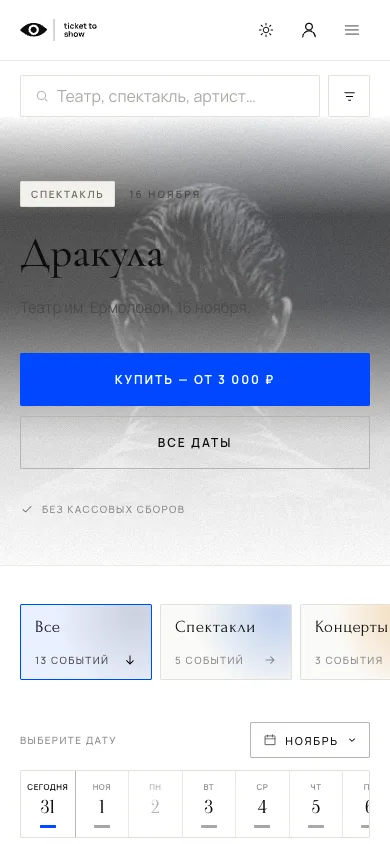
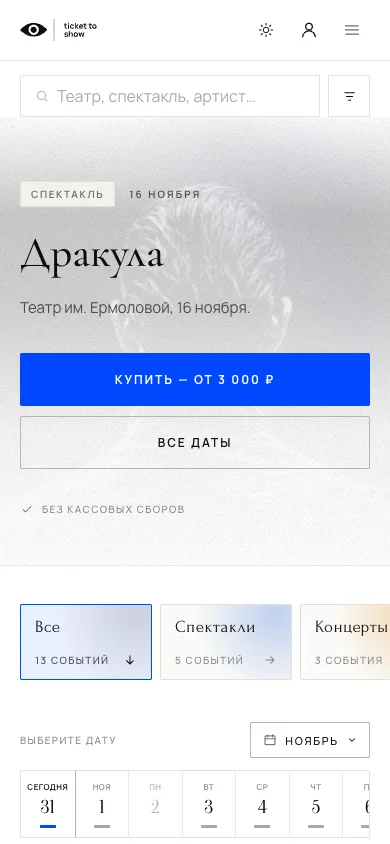
fix(site): home hero shows the whole poster on phones — wide poster as a card above the title, blurred copy behind; hero event is now Psychopaths
The full-bleed photo under the text cut a wide poster down to one face and washed it out in the light theme.
The intro's top card now morphs to the poster's proportions on its way into it.

Changed region(s): [[0.0, 0.154, 1.0, 0.5237]]

diff --git a/site/handoff/stand-fixes/index.html b/site/handoff/stand-fixes/index.html
@@ -302,7 +302,7 @@
         <tr><td class="sid"><a href="#p1">П1</a></td><td>Главная</td><td class="sw">Новая главная и заставка</td><td>заставка-прелоадер с колодой афиш, новый первый экран, календарь</td><td><span class="st st-pick">Предложение</span></td></tr>
         <tr><td class="sid"><a href="#p2">П2</a></td><td>Главная</td><td class="sw">Категории и первый экран<span class="new">New</span></td><td>чипы, пять плиток или первый экран на всю высоту с плитками после него</td><td><span class="st st-pick">На выбор</span></td></tr>
         <tr><td class="sid"><a href="#p3">П3</a></td><td>Карточка афиши</td><td class="sw">«В избранное»<span class="new">New</span></td><td>сердечко на обложке — сохранить событие прямо из афиши</td><td><span class="st st-pick">На выбор</span></td></tr>
-        <tr><td class="sid"><a href="#p4">П4</a></td><td>Главная · телефон</td><td class="sw">Светлая тема первого экрана<span class="new">New</span></td><td>фото под текстом высветляется, а не темнеет — текст читается</td><td><span class="st st-ok">Макет готов</span></td></tr>
+        <tr><td class="sid"><a href="#p4">П4</a></td><td>Главная · телефон</td><td class="sw">Афиша на первом экране<span class="new">New</span></td><td>афиша целиком, карточкой над заголовком, а не фоном под текстом — видна в обеих темах</td><td><span class="st st-ok">Макет готов</span></td></tr>
       </table>
     </div>
   </section>
@@ -790,14 +790,14 @@
         <tr><th>Что</th><th>Сейчас</th><th>Предложение</th></tr>
         <tr><td class="p">Заставка</td><td class="o" data-h="Сейчас">нет</td><td class="n" data-h="Предложение">колода афиш в кобальтовой рамке, свет «Рампа», крупно «Ticket to Show — билеты без кассовых сборов»; верхняя афиша перелетает в постер первого экрана</td></tr>
         <tr><td class="p">Когда играет</td><td class="o" data-h="Сейчас">—</td><td class="n" data-h="Предложение">первый визит — длинная версия, около 5 с; новый визит — около 3 с, идёт за реальной загрузкой; повторные загрузки в той же вкладке — без заставки. После заставки страница стоит в самом верху</td></tr>
-        <tr><td class="p">Первый экран</td><td class="o" data-h="Сейчас">—</td><td class="n" data-h="Предложение">постер события, название, площадка и дата, «Купить — от … ₽» и «Все даты»; ниже — чипы категорий и календарь</td></tr>
+        <tr><td class="p">Первый экран</td><td class="o" data-h="Сейчас">—</td><td class="n" data-h="Предложение">постер события, название, площадка и дата, «Купить — от … ₽» и «Все даты»; ниже — чипы категорий и календарь. Постер — в пропорциях афиши (чаще горизонтальной), подробно — <a href="#p4">П4</a></td></tr>
         <tr><td class="p">Для фронтенда</td><td class="o" data-h="Сейчас">—</td><td class="n" data-h="Предложение">заставка — один файл <code>tts-intro.js</code> без зависимостей, запуск <code>TTSIntro.start({…})</code>; проверка — <code>?intro=0</code>, <code>?intro=long</code>, <code>?intro=short</code></td></tr>
-        <tr><td class="p">Кадры колоды</td><td class="o" data-h="Сейчас">—</td><td class="n" data-h="Предложение">в макете — нарисованные кадры сцены, не афиши; настоящие афиши (3:4, от 900 px по высоте) перечисляются в <code>INTRO_IMAGES</code></td></tr>
+        <tr><td class="p">Кадры колоды</td><td class="o" data-h="Сейчас">—</td><td class="n" data-h="Предложение">в макете — нарисованные кадры сцены, не афиши; настоящие афиши (от 900 px по высоте) перечисляются в <code>INTRO_IMAGES</code>. Верхняя карточка по пути к постеру принимает его пропорции — горизонтальная афиша не обрезается до вертикали</td></tr>
       </table>
       <div class="shots">
         <div class="col"><span class="lbl lbl-new">Заставка · колода и надпись</span><figure class="shot"><img src="img/intro-deck.webp" width="1200" height="750" alt="Заставка: крупная надпись «Ticket to Show — билеты без кассовых сборов» поверх колоды кадров" loading="lazy"></figure></div>
         <div class="col"><span class="lbl lbl-new">Заставка · верхняя афиша</span><figure class="shot"><img src="img/intro-top.webp" width="1200" height="750" alt="Заставка: верхняя афиша колоды в кобальтовой рамке, внизу счётчик загрузки и «К билетам»" loading="lazy"></figure></div>
-        <div class="col"><span class="lbl lbl-new">Первый экран после заставки</span><figure class="shot"><img src="img/intro-hero.webp" width="1200" height="750" alt="Первый экран: «Дракула», кнопки «Купить» и «Все даты», постер справа, ниже чипы категорий и календарь" loading="lazy"></figure></div>
+        <div class="col"><span class="lbl lbl-new">Первый экран после заставки</span><figure class="shot"><img src="img/intro-hero.webp" width="1200" height="750" alt="Первый экран: «Психопаты», кнопки «Купить» и «Все даты», горизонтальная афиша справа, ниже плитки категорий" loading="lazy"></figure></div>
       </div>
       <div class="shots phones">
         <div class="col"><span class="lbl lbl-new">Заставка · телефон</span><figure class="shot"><img src="img/intro-mob.webp" width="390" height="844" alt="Заставка на телефоне" loading="lazy"></figure></div>
@@ -812,7 +812,7 @@
         <tr><th>Что</th><th>Сейчас</th><th>Предложение</th></tr>
         <tr><td class="p">A · Было</td><td class="o" data-h="Сейчас">чипы категорий под первым экраном</td><td class="n" data-h="Предложение">без изменений: «Все / Спектакли / Концерты / Классика / Детям», дальше календарь</td></tr>
         <tr><td class="p">B · Плитки</td><td class="o" data-h="Сейчас">чипы</td><td class="n" data-h="Предложение">пять крупных плиток вместо чипов: название, описание, число событий, стрелка; выбранная — фон <code>--accent-ghost</code> и рамка <code>--accent</code>. На телефоне листаются свайпом, описание скрыто</td></tr>
-        <tr><td class="p">C · Полный экран</td><td class="o" data-h="Сейчас">первый экран обычной высоты</td><td class="n" data-h="Предложение">первый экран на всю высоту окна под шапкой, внизу стрелка «Афиша ↓» (нажатие прокручивает к плиткам). На телефоне и планшете текст и кнопки прижаты к низу, в 40 px над стрелкой: сверху остаётся кадр, пустоты между кнопками и стрелкой нет. Плитки — мини-кнопка «Все» с числом и четыре жанра; при первой прокрутке проявляются по очереди, шаг 70 мс. Дальше календарь и афиша. При <code>prefers-reduced-motion</code> — без движения</td></tr>
+        <tr><td class="p">C · Полный экран</td><td class="o" data-h="Сейчас">первый экран обычной высоты</td><td class="n" data-h="Предложение">первый экран на всю высоту окна под шапкой, внизу стрелка «Афиша ↓» (нажатие прокручивает к плиткам). На телефоне и планшете текст и кнопки прижаты к низу, в 40 px над стрелкой, над ними — афиша целиком (<a href="#p4">П4</a>); пустоты между кнопками и стрелкой нет. Плитки — мини-кнопка «Все» с числом и четыре жанра; при первой прокрутке проявляются по очереди, шаг 70 мс. Дальше календарь и афиша. При <code>prefers-reduced-motion</code> — без движения</td></tr>
       </table>
       <div class="shots">
         <div class="col"><span class="lbl lbl-new">A · Было</span><figure class="shot"><img src="img/home-v-old.webp" width="1100" height="688" alt="Под первым экраном — чипы категорий, календарь и афиша" loading="lazy"></figure></div>
@@ -824,7 +824,7 @@
       </div>
       <div class="shots phones">
         <div class="col"><span class="lbl lbl-new">B · телефон</span><figure class="shot"><img src="img/home-v-tiles-mob.webp" width="390" height="844" alt="Плитки категорий лентой со свайпом на телефоне" loading="lazy"></figure></div>
-        <div class="col"><span class="lbl lbl-new">C · телефон</span><figure class="shot"><img src="img/home-v-full-mob.webp" width="390" height="844" alt="Первый экран на всю высоту телефона: кадр сверху, текст и кнопки у нижнего края, под ними «Без кассовых сборов» и стрелка «Афиша»" loading="lazy"></figure></div>
+        <div class="col"><span class="lbl lbl-new">C · телефон</span><figure class="shot"><img src="img/home-v-full-mob.webp" width="390" height="844" alt="Первый экран на всю высоту телефона: афиша целиком сверху, текст и кнопки у нижнего края, под ними «Без кассовых сборов» и стрелка «Афиша»" loading="lazy"></figure></div>
         <div class="col"><span class="lbl lbl-new">C · телефон, прокрутка</span><figure class="shot"><img src="img/home-v-full-mob-scroll.webp" width="390" height="844" alt="Мини-кнопка «Все» и плитки жанров после прокрутки на телефоне" loading="lazy"></figure></div>
       </div>
     </article>
@@ -847,15 +847,21 @@
     </article>
 
     <article class="chg" id="p4">
-      <div class="chg-h"><div class="chg-id">П4</div><div class="chg-t"><h3>Светлая тема первого экрана на телефоне<span class="new">New</span></h3><div class="where">Главная — телефон, первый экран с фото · <code>site/home-new.html</code>, <code>site/home-new-tiles.html</code></div></div><span class="st st-ok">Макет готов</span></div>
+      <div class="chg-h"><div class="chg-id">П4</div><div class="chg-t"><h3>Афиша на первом экране телефона<span class="new">New</span></h3><div class="where">Главная — телефон и планшет, первый экран · <code>site/home-new.html</code>, <code>site/home-new-tiles.html</code>, заставка <code>site/handoff/intro/tts-intro.js</code></div></div><span class="st st-ok">Макет готов</span></div>
+      <div class="live"><a href="../../home-new-tiles.html?v=tiles&amp;intro=0">Живой макет ↗</a><a href="../../home-new-tiles.html?v=full&amp;intro=0">Полный экран ↗</a></div>
+      <p class="note">Афиши почти всегда горизонтальные: группа артистов, сцена. Растянутая фоном на весь экран телефона, такая афиша режется до одного-двух лиц, мылится, а текст ложится на лица; в светлой теме её ещё и приходится высветлять — афишу почти не видно. Поэтому на телефоне афиша не фон, а сам постер, как на десктопе.</p>
       <table class="spec">
         <tr><th>Что</th><th>Было</th><th>Стало</th></tr>
-        <tr><td class="p">Фото под текстом</td><td class="o" data-h="Было">затемнено (<code>brightness(.55)</code>) и уходит в белый фон — серая каша, тёмный текст на сером, дата и площадка не читаются</td><td class="n" data-h="Стало">в светлой теме фото обесцвечено и высветлено (<code>grayscale(1) brightness(1.45) contrast(.55)</code>, прозрачность 0,6), сверху светлая подложка — тёмный текст читается на любом кадре</td></tr>
-        <tr><td class="p">Правило</td><td class="o" data-h="Было">—</td><td class="n" data-h="Стало">в светлой теме фото под текстом не затемняется, а высветляется; тёмная тема без изменений</td></tr>
+        <tr><td class="p">Афиша</td><td class="o" data-h="Было">фоном под текстом на весь первый экран: от горизонтальной афиши виден кусок, в светлой теме — блёклая (<code>grayscale(1) brightness(1.45) contrast(.55)</code>, прозрачность 0,6)</td><td class="n" data-h="Стало">целиком, карточкой над заголовком — во всю ширину колонки, в пропорциях афиши (<code>--poster-ar</code>), не выше половины экрана; рамка и тень как у постера на десктопе. Без фильтров — одинаково видна в обеих темах</td></tr>
+        <tr><td class="p">Фон</td><td class="o" data-h="Было">то же фото, затемнённое или высветленное</td><td class="n" data-h="Стало">та же афиша, сильно размытая (44 px): свет и цвет кадра без деталей, книзу уходит в цвет страницы. В тёмной теме притемнена, в светлой высветлена — текст читается на любом кадре</td></tr>
+        <tr><td class="p">Десктоп</td><td class="o" data-h="Было">постер 3:4</td><td class="n" data-h="Стало">постер в пропорциях афиши; горизонтальный — шире (до 600 px), колонка текста уже</td></tr>
+        <tr><td class="p">Заставка</td><td class="o" data-h="Было">верхняя карточка 3:4 летит в постер 3:4</td><td class="n" data-h="Стало">по пути карточка принимает пропорции постера — горизонтальная афиша встаёт на место без скачка</td></tr>
+        <tr><td class="p">Картинка</td><td class="o" data-h="Было">—</td><td class="n" data-h="Стало">нужен кадр без полей: у «Психопатов» на сайте фото с бумагой по краям, в макете поля срезаны кадрированием (<code>--poster-pos</code>, <code>--poster-zoom</code>). Ширина — от 1200 px, иначе на телефоне кадр мылится</td></tr>
       </table>
       <div class="shots phones">
-        <div class="col"><span class="lbl lbl-before">Было</span><figure class="shot"><img src="img/hero-light-before.webp" width="390" height="844" alt="Светлая тема: серое затемнённое фото, тёмный текст плохо читается" loading="lazy"></figure></div>
-        <div class="col"><span class="lbl lbl-after">Стало</span><figure class="shot"><img src="img/hero-light-after.webp" width="390" height="844" alt="Светлая тема: высветленное фото, текст читается" loading="lazy"></figure></div>
+        <div class="col"><span class="lbl lbl-before">Было</span><figure class="shot"><img src="img/hero-light-before.webp" width="390" height="844" alt="Светлая тема: афиша высветлена фоном под текстом и почти не видна" loading="lazy"></figure></div>
+        <div class="col"><span class="lbl lbl-after">Стало · светлая</span><figure class="shot"><img src="img/hero-light-after.webp" width="390" height="844" alt="Светлая тема: афиша «Психопатов» целиком над заголовком, фон — её размытая копия" loading="lazy"></figure></div>
+        <div class="col"><span class="lbl lbl-after">Стало · тёмная</span><figure class="shot"><img src="img/hero-dark-after.webp" width="390" height="844" alt="Тёмная тема: та же раскладка" loading="lazy"></figure></div>
       </div>
     </article>
   </section>

diff --git a/site/home-new-tiles.html b/site/home-new-tiles.html
@@ -78,10 +78,15 @@ input:placeholder-shown + .search-clear { display:none; }
 .hero2-beam { position: absolute; inset: 0; filter: blur(24px); opacity: .7;
   background: conic-gradient(from 112deg at -6% -30%, transparent 0deg, color-mix(in srgb, var(--accent-soft) 9%, transparent) 6deg, color-mix(in srgb, var(--n100) 10%, transparent) 11deg, color-mix(in srgb, var(--accent) 6%, transparent) 18deg, transparent 24deg); }
 .hero2-grain { position: absolute; inset: 0; opacity: .045; }
-.hero2-poster { position: relative; justify-self: end; display: block; width: min(100%, 400px); aspect-ratio: 3 / 4; overflow: hidden; border: 1px solid var(--accent); border-radius: var(--r-sm); background: var(--n950); box-shadow: 0 50px 90px -30px var(--shadow-color); opacity: 0; }
+.hero2-poster { position: relative; justify-self: end; display: block; width: min(100%, var(--poster-w, 400px)); aspect-ratio: var(--poster-ar, 3 / 4); overflow: hidden; border: 1px solid var(--accent); border-radius: var(--r-sm); background: var(--n950); box-shadow: 0 50px 90px -30px var(--shadow-color); opacity: 0; }
 html.poster-in .hero2-poster, .no-js .hero2-poster { opacity: 1; }
-.hero2-poster img { display: block; width: 100%; height: 100%; object-fit: cover; transform: scale(1.04); transition: transform 1400ms var(--ease-in); }
-.hero2-poster:hover img { transform: scale(1.09); }
+.hero2-poster img { display: block; width: 100%; height: 100%; object-fit: cover; object-position: var(--poster-pos, 50% 50%); transform: scale(var(--poster-zoom, 1.04)); transition: transform 1400ms var(--ease-in); }
+.hero2-poster:hover img { transform: scale(calc(var(--poster-zoom, 1.04) + .05)); }
+/* горизонтальная афиша: постер шире, колонка текста уже */
+@media (min-width: 901px) { .hero2--wide .hero2-in { grid-template-columns: 1fr 1.15fr; } }
+/* заставка: у афиши «Психопатов» по краям картинки бумага — верхняя карточка колоды (она перелетает в постер)
+   кадрируется так же, как постер первого экрана */
+.tts-intro .ti-card:last-child img { object-position: 52% 50%; transform: scale(1.045); }
 .hp-cap { position: absolute; left: 0; right: 0; bottom: 0; display: flex; flex-direction: column; gap: 8px; padding: 64px 22px 22px; background: linear-gradient(180deg, transparent, color-mix(in srgb, var(--ink) 88%, transparent)); opacity: 0; transform: translateY(12px); transition: opacity 700ms var(--ease-out) 200ms, transform 900ms var(--ease-in) 200ms; }
 html.poster-in .hp-cap, .no-js .hp-cap { opacity: 1; transform: none; }
 .hp-date { font-family: var(--f-num); font-size: 18px; color: var(--n100); }
@@ -254,34 +259,27 @@ html.page-in .hw > span, .no-js .hw > span { transform: none; transition: transf
   .cm { min-height: 0; }
   .cm-n { font-size: 17px; }
 }
-/* обложка фоном первого экрана — только ниже 900 px, где постера рядом нет */
+/* Телефон и планшет: афиша — целиком, карточкой над заголовком, а не фоном под текстом.
+   Афиши почти всегда горизонтальные (группа артистов, сцена): растянутая на весь экран, такая афиша
+   режется до одного лица, мылится, а текст ложится на лица. Поэтому кадр стоит целиком — в своих пропорциях
+   (--poster-ar), не выше половины экрана; фон — та же афиша, сильно размытая: свет и цвет кадра без деталей. */
 .hero2-cover, .hero2-shade { display: none; }
 @media (max-width: 900px) {
-  .hero2-in { grid-template-columns: 1fr; min-height: 0; padding: var(--sp-16) var(--page-pad) var(--sp-12); }
-  .hero2-poster { display: none; }
+  .hero2-in { grid-template-columns: 1fr; gap: var(--sp-8); min-height: 0; padding: var(--sp-6) var(--page-pad) var(--sp-12); }
+  .hero2-poster { order: -1; justify-self: stretch; width: 100%; max-width: none; max-height: 50svh; box-shadow: 0 30px 60px -28px var(--shadow-color); }
+  .hero2-poster:active img { transform: scale(calc(var(--poster-zoom, 1.04) + .05)); }
   .hero2-b1, .hero2-b2 { display: none; }
-  .hero2-cover { display: block; position: absolute; inset: 0; width: 100%; height: 100%; object-fit: cover; object-position: 50% 25%; opacity: 0; filter: brightness(.55) saturate(.9); transform: scale(1.02);
-    transition: opacity 900ms var(--ease-out), transform 1400ms cubic-bezier(.16,1,.3,1), filter 900ms var(--ease-out); }
-  html.poster-in .hero2-cover, .no-js .hero2-cover { opacity: 1; }
-  /* затемнение: сверху — под шапку, снизу — под текст и кнопки */
+  .hero2-cover { display: block; position: absolute; left: -10%; top: -10%; width: 120%; height: 120%; object-fit: cover; opacity: 0;
+    filter: blur(44px) brightness(.55) saturate(1.1); transition: opacity 900ms var(--ease-out); }
+  html.poster-in .hero2-cover, .no-js .hero2-cover { opacity: .9; }
   .hero2-shade { display: block; position: absolute; inset: 0;
-    background: linear-gradient(180deg, var(--ink) 0%, color-mix(in srgb, var(--ink) 30%, transparent) 22%, color-mix(in srgb, var(--ink) 35%, transparent) 42%, color-mix(in srgb, var(--ink) 88%, transparent) 72%, var(--ink) 100%); }
-  .hero2:active .hero2-cover { transform: scale(1.08); filter: brightness(.75) saturate(1); }
+    background: linear-gradient(180deg, color-mix(in srgb, var(--ink) 25%, transparent) 0%, color-mix(in srgb, var(--ink) 60%, transparent) 50%, var(--ink) 100%); }
 }
-@media (max-width: 900px) and (hover: hover) {
-  .hero2:hover .hero2-cover { transform: scale(1.08); filter: brightness(.75) saturate(1); }
-}
-/* светлая тема: фото под текстом не затемняется, а высветляется — тёмный текст читается на любом кадре.
-   Правило для всех фото под текстом в светлой теме: обесцветить, высветлить, приглушить контраст, сверху — светлая подложка. */
+/* светлая тема: размытый фон не затемняется, а высветляется — тёмный текст читается на любом кадре; сама афиша — без фильтров */
 @media (max-width: 900px) {
-  html[data-theme="light"] .hero2-cover { filter: grayscale(1) brightness(1.45) contrast(.55); }
+  html[data-theme="light"] .hero2-cover { filter: blur(44px) grayscale(.3) brightness(1.2); }
   html[data-theme="light"].poster-in .hero2-cover, html[data-theme="light"].no-js .hero2-cover { opacity: .6; }
-  html[data-theme="light"] .hero2:active .hero2-cover { filter: grayscale(.7) brightness(1.4) contrast(.65); }
-  html[data-theme="light"] .hero2-shade { background: linear-gradient(180deg, var(--ink) 0%, color-mix(in srgb, var(--ink) 55%, transparent) 22%,
-    color-mix(in srgb, var(--ink) 62%, transparent) 42%, color-mix(in srgb, var(--ink) 92%, transparent) 70%, var(--ink) 100%); }
-}
-@media (max-width: 900px) and (hover: hover) {
-  html[data-theme="light"] .hero2:hover .hero2-cover { filter: grayscale(.7) brightness(1.4) contrast(.65); }
+  html[data-theme="light"] .hero2-shade { background: linear-gradient(180deg, color-mix(in srgb, var(--ink) 35%, transparent) 0%, color-mix(in srgb, var(--ink) 70%, transparent) 50%, var(--ink) 100%); }
 }
 @media (max-width: 767px) {
   .home { padding-top: var(--sp-8); }
@@ -402,7 +400,7 @@ html.tts-intro-lock .vsw { display: none; }
       MS + '85a/fndnxz2eojab1nki8b3ikufmvaywsadl/lavr2_.jpg',
       MS + '356/kqkkzqpzk8rh4oaifiy0lrqlesvz3f8f/frida_.jpg',
       MS + '40f/xk8jj9k4o0ozlw47j22ys3tdaf4g13et/einstein_i_margarita_.jpg',
-      MS + '511/8dx8lcsr659f8oh338abwf80tfulp5y9/drakula_.jpg'
+      MS + 'df2/sim93ywv2d0mgp0tg7bjhdrbuvn7oq7v/psikhopaty__.jpg'
     ],
     fallbacks: ['home-new/stage-bokeh.webp', 'home-new/stage-rays.webp', 'home-new/stage-spotlight.webp', 'home-new/stage-curtain.webp'],
     poster: '.hero2-poster',
@@ -458,23 +456,24 @@ html.tts-intro-lock .vsw { display: none; }
 
 <main>
 <!-- ════════ hero ════════ -->
-<section class="hero2" aria-labelledby="heroT">
-  <div class="hero2-bg" aria-hidden="true"><span class="hero2-b1"></span><span class="hero2-b2"></span><img class="hero2-cover" src="https://moscowshow.com/upload/iblock/511/8dx8lcsr659f8oh338abwf80tfulp5y9/drakula_.jpg" alt="" decoding="async" referrerpolicy="no-referrer" onerror="if(!this.dataset.fb){this.dataset.fb=1;this.src='home-new/stage-curtain.webp'}"><i class="hero2-shade"></i><i class="hero2-beam"></i><i class="hero2-grain grain-tex"></i></div>
+<!-- Психопаты: на картинке сайта фото по центру, по краям — мятая бумага; кадр 3:2, сдвиг к центру фото и приближение 1.045 оставляют только фото -->
+<section class="hero2 hero2--wide" aria-labelledby="heroT" style="--poster-ar: 3 / 2; --poster-pos: 52% 50%; --poster-zoom: 1.045; --poster-w: 600px">
+  <div class="hero2-bg" aria-hidden="true"><span class="hero2-b1"></span><span class="hero2-b2"></span><img class="hero2-cover" src="https://moscowshow.com/upload/iblock/df2/sim93ywv2d0mgp0tg7bjhdrbuvn7oq7v/psikhopaty__.jpg" alt="" decoding="async" referrerpolicy="no-referrer" onerror="if(!this.dataset.fb){this.dataset.fb=1;this.src='home-new/stage-curtain.webp'}"><i class="hero2-shade"></i><i class="hero2-beam"></i><i class="hero2-grain grain-tex"></i></div>
   <div class="hero2-in">
     <div>
-      <div class="hero2-meta rv" style="--i:0"><span class="tag tag-default">Спектакль</span><span class="t-eyebrow">16 ноября</span></div>
-      <h1 class="hero2-title rv" style="--i:1" id="heroT">Дракула</h1>
-      <p class="hero2-sub rv" style="--i:2">Театр им. Ермоловой, 16 ноября.</p>
+      <div class="hero2-meta rv" style="--i:0"><span class="tag tag-default">Спектакль</span><span class="t-eyebrow">5 декабря</span></div>
+      <h1 class="hero2-title rv" style="--i:1" id="heroT">Психопаты</h1>
+      <p class="hero2-sub rv" style="--i:2">Театр эстрады, 5 декабря.</p>
       <div class="hero2-cta rv" style="--i:3">
-        <a class="btn btn-primary btn-lg" href="#">Купить — от 3 000 ₽</a>
+        <a class="btn btn-primary btn-lg" href="#">Купить — от 2 200 ₽</a>
         <a class="btn btn-ghost btn-lg" href="#">Все даты</a>
       </div>
       <div class="hero2-usp rv" style="--i:4">
         <span class="t-caption"><svg width="14" height="14" viewBox="0 0 24 24" fill="none" stroke="currentColor" stroke-width="1.5" stroke-linecap="round" stroke-linejoin="round" aria-hidden="true"><path d="M5 12.5l4.5 4.5L19 7.5"/></svg>Без кассовых сборов</span>
       </div>
     </div>
-    <a class="hero2-poster" href="#" aria-label="Дракула, 16 ноября, Театр им. Ермоловой">
-      <img src="https://moscowshow.com/upload/iblock/511/8dx8lcsr659f8oh338abwf80tfulp5y9/drakula_.jpg" alt="" decoding="async" referrerpolicy="no-referrer" onerror="if(!this.dataset.fb){this.dataset.fb=1;this.src='home-new/stage-curtain.webp'}">
+    <a class="hero2-poster" href="#" aria-label="Психопаты, 5 декабря, Театр эстрады">
+      <img src="https://moscowshow.com/upload/iblock/df2/sim93ywv2d0mgp0tg7bjhdrbuvn7oq7v/psikhopaty__.jpg" alt="" decoding="async" referrerpolicy="no-referrer" onerror="if(!this.dataset.fb){this.dataset.fb=1;this.src='home-new/stage-curtain.webp'}">
     </a>
   </div>
   <button class="hero2-cue" type="button" aria-label="К афише"><span class="t-caption">Афиша</span><svg width="16" height="16" viewBox="0 0 24 24" fill="none" stroke="currentColor" stroke-width="1.5" stroke-linecap="round" stroke-linejoin="round" aria-hidden="true"><path d="M6 9l6 6 6-6"/></svg></button>

diff --git a/site/home-new.html b/site/home-new.html
@@ -76,10 +76,15 @@ input:placeholder-shown + .search-clear { display:none; }
 .hero2-beam { position: absolute; inset: 0; filter: blur(24px); opacity: .7;
   background: conic-gradient(from 112deg at -6% -30%, transparent 0deg, color-mix(in srgb, var(--accent-soft) 9%, transparent) 6deg, color-mix(in srgb, var(--n100) 10%, transparent) 11deg, color-mix(in srgb, var(--accent) 6%, transparent) 18deg, transparent 24deg); }
 .hero2-grain { position: absolute; inset: 0; opacity: .045; }
-.hero2-poster { position: relative; justify-self: end; display: block; width: min(100%, 400px); aspect-ratio: 3 / 4; overflow: hidden; border: 1px solid var(--accent); border-radius: var(--r-sm); background: var(--n950); box-shadow: 0 50px 90px -30px var(--shadow-color); opacity: 0; }
+.hero2-poster { position: relative; justify-self: end; display: block; width: min(100%, var(--poster-w, 400px)); aspect-ratio: var(--poster-ar, 3 / 4); overflow: hidden; border: 1px solid var(--accent); border-radius: var(--r-sm); background: var(--n950); box-shadow: 0 50px 90px -30px var(--shadow-color); opacity: 0; }
 html.poster-in .hero2-poster, .no-js .hero2-poster { opacity: 1; }
-.hero2-poster img { display: block; width: 100%; height: 100%; object-fit: cover; transform: scale(1.04); transition: transform 1400ms var(--ease-in); }
-.hero2-poster:hover img { transform: scale(1.09); }
+.hero2-poster img { display: block; width: 100%; height: 100%; object-fit: cover; object-position: var(--poster-pos, 50% 50%); transform: scale(var(--poster-zoom, 1.04)); transition: transform 1400ms var(--ease-in); }
+.hero2-poster:hover img { transform: scale(calc(var(--poster-zoom, 1.04) + .05)); }
+/* горизонтальная афиша: постер шире, колонка текста уже */
+@media (min-width: 901px) { .hero2--wide .hero2-in { grid-template-columns: 1fr 1.15fr; } }
+/* заставка: у афиши «Психопатов» по краям картинки бумага — верхняя карточка колоды (она перелетает в постер)
+   кадрируется так же, как постер первого экрана */
+.tts-intro .ti-card:last-child img { object-position: 52% 50%; transform: scale(1.045); }
 .hp-cap { position: absolute; left: 0; right: 0; bottom: 0; display: flex; flex-direction: column; gap: 8px; padding: 64px 22px 22px; background: linear-gradient(180deg, transparent, color-mix(in srgb, var(--ink) 88%, transparent)); opacity: 0; transform: translateY(12px); transition: opacity 700ms var(--ease-out) 200ms, transform 900ms var(--ease-in) 200ms; }
 html.poster-in .hp-cap, .no-js .hp-cap { opacity: 1; transform: none; }
 .hp-date { font-family: var(--f-num); font-size: 18px; color: var(--n100); }
@@ -206,34 +211,27 @@ html.page-in .hw > span, .no-js .hw > span { transform: none; transition: transf
   .cm { min-height: 0; }
   .cm-n { font-size: 17px; }
 }
-/* обложка фоном первого экрана — только ниже 900 px, где постера рядом нет */
+/* Телефон и планшет: афиша — целиком, карточкой над заголовком, а не фоном под текстом.
+   Афиши почти всегда горизонтальные (группа артистов, сцена): растянутая на весь экран, такая афиша
+   режется до одного лица, мылится, а текст ложится на лица. Поэтому кадр стоит целиком — в своих пропорциях
+   (--poster-ar), не выше половины экрана; фон — та же афиша, сильно размытая: свет и цвет кадра без деталей. */
 .hero2-cover, .hero2-shade { display: none; }
 @media (max-width: 900px) {
-  .hero2-in { grid-template-columns: 1fr; min-height: 0; padding: var(--sp-16) var(--page-pad) var(--sp-12); }
-  .hero2-poster { display: none; }
+  .hero2-in { grid-template-columns: 1fr; gap: var(--sp-8); min-height: 0; padding: var(--sp-6) var(--page-pad) var(--sp-12); }
+  .hero2-poster { order: -1; justify-self: stretch; width: 100%; max-width: none; max-height: 50svh; box-shadow: 0 30px 60px -28px var(--shadow-color); }
+  .hero2-poster:active img { transform: scale(calc(var(--poster-zoom, 1.04) + .05)); }
   .hero2-b1, .hero2-b2 { display: none; }
-  .hero2-cover { display: block; position: absolute; inset: 0; width: 100%; height: 100%; object-fit: cover; object-position: 50% 25%; opacity: 0; filter: brightness(.55) saturate(.9); transform: scale(1.02);
-    transition: opacity 900ms var(--ease-out), transform 1400ms cubic-bezier(.16,1,.3,1), filter 900ms var(--ease-out); }
-  html.poster-in .hero2-cover, .no-js .hero2-cover { opacity: 1; }
-  /* затемнение: сверху — под шапку, снизу — под текст и кнопки */
+  .hero2-cover { display: block; position: absolute; left: -10%; top: -10%; width: 120%; height: 120%; object-fit: cover; opacity: 0;
+    filter: blur(44px) brightness(.55) saturate(1.1); transition: opacity 900ms var(--ease-out); }
+  html.poster-in .hero2-cover, .no-js .hero2-cover { opacity: .9; }
   .hero2-shade { display: block; position: absolute; inset: 0;
-    background: linear-gradient(180deg, var(--ink) 0%, color-mix(in srgb, var(--ink) 30%, transparent) 22%, color-mix(in srgb, var(--ink) 35%, transparent) 42%, color-mix(in srgb, var(--ink) 88%, transparent) 72%, var(--ink) 100%); }
-  .hero2:active .hero2-cover { transform: scale(1.08); filter: brightness(.75) saturate(1); }
+    background: linear-gradient(180deg, color-mix(in srgb, var(--ink) 25%, transparent) 0%, color-mix(in srgb, var(--ink) 60%, transparent) 50%, var(--ink) 100%); }
 }
-@media (max-width: 900px) and (hover: hover) {
-  .hero2:hover .hero2-cover { transform: scale(1.08); filter: brightness(.75) saturate(1); }
-}
-/* светлая тема: фото под текстом не затемняется, а высветляется — тёмный текст читается на любом кадре.
-   Правило для всех фото под текстом в светлой теме: обесцветить, высветлить, приглушить контраст, сверху — светлая подложка. */
+/* светлая тема: размытый фон не затемняется, а высветляется — тёмный текст читается на любом кадре; сама афиша — без фильтров */
 @media (max-width: 900px) {
-  html[data-theme="light"] .hero2-cover { filter: grayscale(1) brightness(1.45) contrast(.55); }
+  html[data-theme="light"] .hero2-cover { filter: blur(44px) grayscale(.3) brightness(1.2); }
   html[data-theme="light"].poster-in .hero2-cover, html[data-theme="light"].no-js .hero2-cover { opacity: .6; }
-  html[data-theme="light"] .hero2:active .hero2-cover { filter: grayscale(.7) brightness(1.4) contrast(.65); }
-  html[data-theme="light"] .hero2-shade { background: linear-gradient(180deg, var(--ink) 0%, color-mix(in srgb, var(--ink) 55%, transparent) 22%,
-    color-mix(in srgb, var(--ink) 62%, transparent) 42%, color-mix(in srgb, var(--ink) 92%, transparent) 70%, var(--ink) 100%); }
-}
-@media (max-width: 900px) and (hover: hover) {
-  html[data-theme="light"] .hero2:hover .hero2-cover { filter: grayscale(.7) brightness(1.4) contrast(.65); }
+  html[data-theme="light"] .hero2-shade { background: linear-gradient(180deg, color-mix(in srgb, var(--ink) 35%, transparent) 0%, color-mix(in srgb, var(--ink) 70%, transparent) 50%, var(--ink) 100%); }
 }
 @media (max-width: 767px) {
   .home { padding-top: var(--sp-8); }
@@ -296,7 +294,7 @@ html.page-in .hw > span, .no-js .hw > span { transform: none; transition: transf
       MS + '85a/fndnxz2eojab1nki8b3ikufmvaywsadl/lavr2_.jpg',
       MS + '356/kqkkzqpzk8rh4oaifiy0lrqlesvz3f8f/frida_.jpg',
       MS + '40f/xk8jj9k4o0ozlw47j22ys3tdaf4g13et/einstein_i_margarita_.jpg',
-      MS + '511/8dx8lcsr659f8oh338abwf80tfulp5y9/drakula_.jpg'
+      MS + 'df2/sim93ywv2d0mgp0tg7bjhdrbuvn7oq7v/psikhopaty__.jpg'
     ],
     fallbacks: ['home-new/stage-bokeh.webp', 'home-new/stage-rays.webp', 'home-new/stage-spotlight.webp', 'home-new/stage-curtain.webp'],
     poster: '.hero2-poster',
@@ -352,23 +350,24 @@ html.page-in .hw > span, .no-js .hw > span { transform: none; transition: transf
 
 <main>
 <!-- ════════ hero ════════ -->
-<section class="hero2" aria-labelledby="heroT">
-  <div class="hero2-bg" aria-hidden="true"><span class="hero2-b1"></span><span class="hero2-b2"></span><img class="hero2-cover" src="https://moscowshow.com/upload/iblock/511/8dx8lcsr659f8oh338abwf80tfulp5y9/drakula_.jpg" alt="" decoding="async" referrerpolicy="no-referrer" onerror="if(!this.dataset.fb){this.dataset.fb=1;this.src='home-new/stage-curtain.webp'}"><i class="hero2-shade"></i><i class="hero2-beam"></i><i class="hero2-grain grain-tex"></i></div>
+<!-- Психопаты: на картинке сайта фото по центру, по краям — мятая бумага; кадр 3:2, сдвиг к центру фото и приближение 1.045 оставляют только фото -->
+<section class="hero2 hero2--wide" aria-labelledby="heroT" style="--poster-ar: 3 / 2; --poster-pos: 52% 50%; --poster-zoom: 1.045; --poster-w: 600px">
+  <div class="hero2-bg" aria-hidden="true"><span class="hero2-b1"></span><span class="hero2-b2"></span><img class="hero2-cover" src="https://moscowshow.com/upload/iblock/df2/sim93ywv2d0mgp0tg7bjhdrbuvn7oq7v/psikhopaty__.jpg" alt="" decoding="async" referrerpolicy="no-referrer" onerror="if(!this.dataset.fb){this.dataset.fb=1;this.src='home-new/stage-curtain.webp'}"><i class="hero2-shade"></i><i class="hero2-beam"></i><i class="hero2-grain grain-tex"></i></div>
   <div class="hero2-in">
     <div>
-      <div class="hero2-meta rv" style="--i:0"><span class="tag tag-default">Спектакль</span><span class="t-eyebrow">16 ноября</span></div>
-      <h1 class="hero2-title rv" style="--i:1" id="heroT">Дракула</h1>
-      <p class="hero2-sub rv" style="--i:2">Театр им. Ермоловой, 16 ноября.</p>
+      <div class="hero2-meta rv" style="--i:0"><span class="tag tag-default">Спектакль</span><span class="t-eyebrow">5 декабря</span></div>
+      <h1 class="hero2-title rv" style="--i:1" id="heroT">Психопаты</h1>
+      <p class="hero2-sub rv" style="--i:2">Театр эстрады, 5 декабря.</p>
       <div class="hero2-cta rv" style="--i:3">
-        <a class="btn btn-primary btn-lg" href="#">Купить — от 3 000 ₽</a>
+        <a class="btn btn-primary btn-lg" href="#">Купить — от 2 200 ₽</a>
         <a class="btn btn-ghost btn-lg" href="#">Все даты</a>
       </div>
       <div class="hero2-usp rv" style="--i:4">
         <span class="t-caption"><svg width="14" height="14" viewBox="0 0 24 24" fill="none" stroke="currentColor" stroke-width="1.5" stroke-linecap="round" stroke-linejoin="round" aria-hidden="true"><path d="M5 12.5l4.5 4.5L19 7.5"/></svg>Без кассовых сборов</span>
       </div>
     </div>
-    <a class="hero2-poster" href="#" aria-label="Дракула, 16 ноября, Театр им. Ермоловой">
-      <img src="https://moscowshow.com/upload/iblock/511/8dx8lcsr659f8oh338abwf80tfulp5y9/drakula_.jpg" alt="" decoding="async" referrerpolicy="no-referrer" onerror="if(!this.dataset.fb){this.dataset.fb=1;this.src='home-new/stage-curtain.webp'}">
+    <a class="hero2-poster" href="#" aria-label="Психопаты, 5 декабря, Театр эстрады">
+      <img src="https://moscowshow.com/upload/iblock/df2/sim93ywv2d0mgp0tg7bjhdrbuvn7oq7v/psikhopaty__.jpg" alt="" decoding="async" referrerpolicy="no-referrer" onerror="if(!this.dataset.fb){this.dataset.fb=1;this.src='home-new/stage-curtain.webp'}">
     </a>
   </div>
 </section>

diff --git a/site/handoff/intro/tts-intro.js b/site/handoff/intro/tts-intro.js
@@ -57,7 +57,7 @@ html.tts-intro-lock, html.tts-intro-lock body { overflow: hidden; }
 .ti-card[data-d="2"] { opacity: 1; transform: translate(-50%, -50%) translate3d(-3.6vw, -2%, 0) rotate(-4deg) scale(.94); filter: brightness(.28); }
 .ti-card[data-d="3"] { opacity: 0; transform: translate(-50%, -50%) translate3d(0, -3%, 0) scale(.9); filter: brightness(.2); }
 .tts-intro.is-out .ti-card:not(.is-hero) { opacity: 0; transition: opacity 700ms var(--ease-out); }
-.ti-card.is-hero { transition: transform 1300ms var(--ti-io), filter 700ms var(--ease-out); }
+.ti-card.is-hero { transition: transform 1300ms var(--ti-io), height 1300ms var(--ti-io), filter 700ms var(--ease-out); }
 
 /* фон под надписью тише: затемнение между колодой и текстом, уходит, когда афиша летит в постер */
 .ti-dim { position: absolute; inset: 0; pointer-events: none; transition: opacity 700ms var(--ease-out);
@@ -315,7 +315,10 @@ html.tts-intro-lock, html.tts-intro-lock body { overflow: hidden; }
       var fly = !RM && !toTickets && topCard && topCard.dataset.d === '0' && pr && pr.width > 0 && pr.bottom > 0 && pr.top < innerHeight;
       if (fly) {
         topCard.classList.add('is-hero');
-        var s = pr.width / topCard.offsetWidth;
+        /* постер бывает горизонтальным: карточка по пути принимает его пропорции, картинка внутри кадрируется сама */
+        var w0 = topCard.offsetWidth, h1 = w0 * pr.height / pr.width;
+        if (Math.abs(h1 - topCard.offsetHeight) > 2) { topCard.style.width = w0 + 'px'; topCard.style.aspectRatio = 'auto'; topCard.style.height = topCard.offsetHeight + 'px'; void topCard.offsetHeight; topCard.style.height = h1 + 'px'; }
+        var s = pr.width / w0;
         topCard.style.transform = 'translate(-50%, -50%) translate3d(' + (pr.left + pr.width / 2 - innerWidth / 2) + 'px, ' + (pr.top + pr.height / 2 - innerHeight / 2) + 'px, 0) rotate(0deg) scale(' + s + ')';
       }
       setTimeout(function () { box.classList.add('is-out'); }, RM ? 0 : 250);

diff --git a/site/handoff/intro/README.md b/site/handoff/intro/README.md
@@ -10,6 +10,7 @@
   Повторные загрузки в той же вкладке — без заставки.
 - Свет — «Рампа». Надпись: «Ticket to Show» — Cormorant Garamond italic 400, остальное — Manrope 200.
   Размер надписи считает CSS от окна.
+- Верхняя афиша колоды перелетает в `poster` и по пути принимает его пропорции: постер может быть горизонтальным.
 - После заставки страница всегда стоит в самом верху. «К билетам» прокручивает к блоку `tickets`.
 - Нужны ядро R14 (`ds-core-r14.css`) и шрифты из строки в `index.html`.
 - Для проверки: `?intro=0`, `?intro=long`, `?intro=short`, `TTSIntro.reset()` в консоли.
